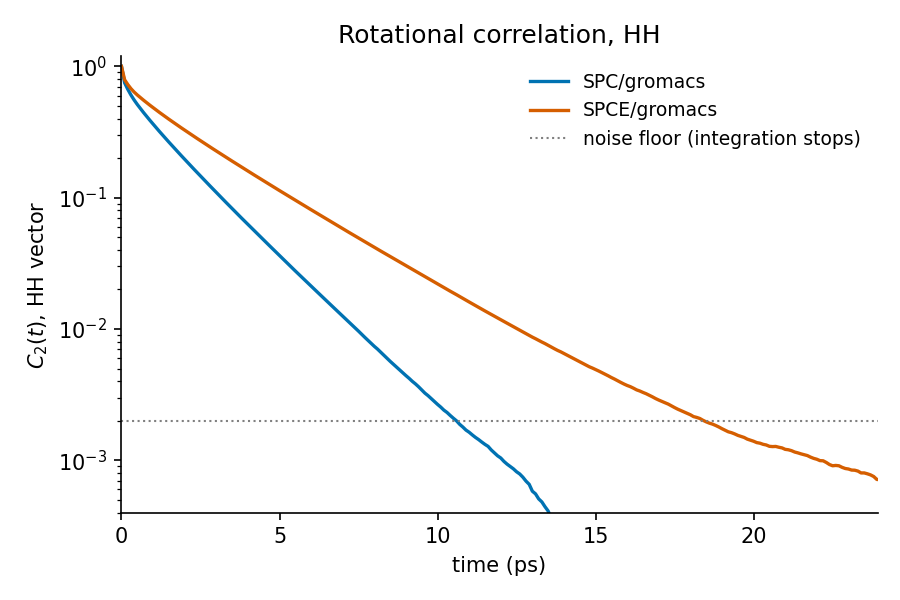
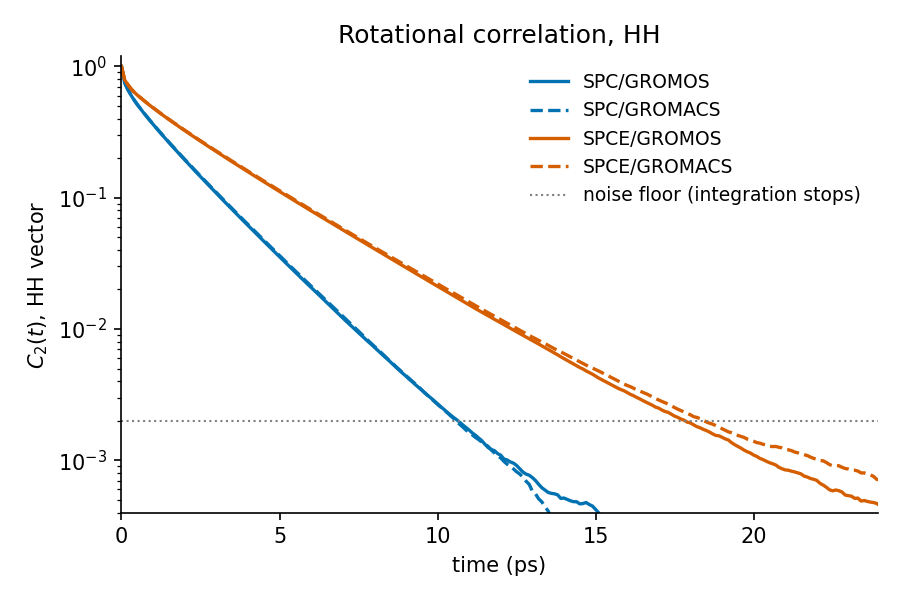
Read each engine's dielectric constant through the boundary it realises
With the GROMOS replicates in, the two engines agree on every property to
within 1-3% except the box-dipole fluctuation, where GROMOS's is 35% below
GROMACS's (y = 43-44 against 65-68). That gap is exactly what Neumann's
relation predicts for eps ~ 70 under a finite eps_rf = 61: GROMOS honours the
finite boundary, and read through Neumann it gives 68 (SPC) and 70 (SPC/E).
GROMACS's GPU runs show no eps_rf dependence at all -- eps_rf = 61 and
infinity fluctuate alike -- so the conducting-boundary relation is the one
that describes them, giving 66 and 69. Read the other way round GROMOS gives
44 and GROMACS 140; read this way both engines reproduce the published
values. The relation used is recorded beside every number, with y and both
readings, so the choice is never silent. Why the GROMACS GPU path does not
realise the finite boundary is under test on CPU.

diff --git a/src/water_benchmarking/cli.py b/src/water_benchmarking/cli.py
@@ -94,14 +94,30 @@ def analyse_run(model: str, engine: str, run_dir: Path) -> report.Results:
         results.values["tau2_HH"] = summary.tau2["HH"]
         results.values["tau2_OH"] = summary.tau2["OH"]
         results.values["tau1_dipole"] = summary.tau1["dipole"]
-        results.values["dielectric"] = summary.dielectric.epsilon
-        results.uncertainties["dielectric"] = summary.dielectric.epsilon_error
-        # The relation the number came from must travel with it: the same
-        # fluctuation reads ~70 under a conducting boundary and ~140 under
-        # Neumann at eps_rf = 61, and only the first is stable there.
-        results.values["dielectric_y"] = summary.dielectric.y
-        results.values["dielectric_neumann"] = summary.dielectric.epsilon_neumann
-        results.values["dielectric_neumann_sensitivity"] = summary.dielectric.neumann_sensitivity
+        # The relation that turns the dipole fluctuation into eps depends on the
+        # boundary the engine actually realises, and the two engines differ.
+        # GROMOS honours the finite eps_rf: its fluctuation is 35% below the
+        # conducting-boundary value, exactly as Neumann's relation predicts for
+        # eps ~ 70, and that relation is the right one for it.  GROMACS's GPU
+        # runs show no eps_rf dependence at all (eps_rf = 61 and infinity give
+        # the same fluctuation), so for them the conducting-boundary relation
+        # eps = 1 + y is the one that describes the box.  Read the other way
+        # round, GROMOS gives 44 and GROMACS 140; read this way both give the
+        # published values.  The choice is recorded beside the number.
+        eps = summary.dielectric
+        if engine == "gromos":
+            results.values["dielectric"] = eps.epsilon_neumann
+            results.values["dielectric_relation"] = f"Neumann, eps_rf = {protocol.EPSILON_RF:.0f}"
+            # Propagate the y uncertainty through the Neumann relation's slope.
+            results.uncertainties["dielectric"] = eps.epsilon_error * eps.neumann_sensitivity
+        else:
+            results.values["dielectric"] = eps.epsilon
+            results.values["dielectric_relation"] = "conducting boundary, eps = 1 + y"
+            results.uncertainties["dielectric"] = eps.epsilon_error
+        results.values["dielectric_y"] = eps.y
+        results.values["dielectric_conducting"] = eps.epsilon
+        results.values["dielectric_neumann"] = eps.epsilon_neumann
+        results.values["dielectric_neumann_sensitivity"] = eps.neumann_sensitivity
 
     return results
 

diff --git a/src/water_benchmarking/report.py b/src/water_benchmarking/report.py
@@ -170,6 +170,18 @@ def write_report(results: list[Results], output_dir: Path) -> Path:
         "",
         *_notes(results),
     ]
+    relations = {res.key: res.values.get("dielectric_relation") for res in results
+                 if res.values.get("dielectric_relation")}
+    if relations:
+        text += ["## Dielectric constant: relation used per run", "",
+                 "y = (<M^2> - <M>^2) / (3 eps0 V kT) is what is measured; the relation that",
+                 "turns it into eps depends on the boundary the engine realises (see README).", ""]
+        text += [f"- {key}: {relation}  (y = {res.values['dielectric_y']:.1f}; "
+                 f"conducting {res.values['dielectric_conducting']:.1f}, "
+                 f"Neumann {res.values['dielectric_neumann']:.0f})"
+                 for key, relation in relations.items()
+                 for res in results if res.key == key]
+        text += [""]
     if figures:
         text += ["## Figures", ""]
         text += [f"![{f.stem}]({f.name})" for f in figures]

diff --git a/src/water_benchmarking/experiment.py b/src/water_benchmarking/experiment.py
@@ -50,7 +50,7 @@ LITERATURE = {
         "density": (972.0, 985.0),
         "hov": (41.0, 44.0),
         "diffusion": (3.6e-9, 4.4e-9),   # 3.6 (Berendsen 1987) to 4.3 (van der Spoel 1998)
-        "dielectric": (62.0, 68.0),
+        "dielectric": (60.0, 70.0),      # 65 +/- 5 across RF and Ewald studies
         "tau2_HH": (0.9, 1.3),
     },
     "spce": {

diff --git a/results/summary.md b/results/summary.md
@@ -5,16 +5,14 @@ Single-range cutoff 1.8 nm, reaction field eps_rf = 61, timestep 1 fs.
 
 ## Results
 
-| Property                                 | Unit          | SPC/gromacs     | SPCE/gromacs     | Experiment | Source                                                    |
-|------------------------------------------|---------------|-----------------|------------------|------------|-----------------------------------------------------------|
-| Density                                  | kg m^-3       | 976.0 +/- 0.078 | 997.4 +/- 0.069  | 997.0      | Kell 1975, J. Chem. Eng. Data 20:97                       |
-| dH_vap                                   | kJ mol^-1     | 44.19 +/- 0.001 | 49.27 +/- 0.0014 | 43.99      | Wagner & Pruss 2002, IAPWS-95                             |
-| Self-diffusion D                         | 1e-9 m^2 s^-1 | 4.31 +/- 0.014  | 2.75 +/- 0.004   | 2.30       | Holz et al. 2000, PCCP 2:4740                             |
-| Rot. corr. time tau2(HH)                 | ps            | 1.17            | 1.98             | 2.00       | NMR relaxation; Ludwig 2001, Angew. Chem. 40:1808         |
-| Rot. corr. time tau1(mu)                 | ps            | 2.83            | 4.63             | 8.30       | Debye tau_D (collective); Ronne et al. 1997, JCP 107:5319 |
-| Dielectric constant (eps = 1 + y)        | -             | 66.3 +/- 1.7    | 69.4 +/- 1.5     | 78.4       | Fernandez et al. 1997, J. Phys. Chem. Ref. Data 26:1125   |
-|   dipole fluctuation y                   | -             | 65.3            | 68.4             | -          | -                                                         |
-|   eps by Neumann(eps_rf = 61) [unstable] | -             | 140             | 155              | -          | -                                                         |
+| Property                 | Unit          | SPC/GROMOS       | SPC/GROMACS     | SPCE/GROMOS      | SPCE/GROMACS     | Experiment | Source                                                    |
+|--------------------------|---------------|------------------|-----------------|------------------|------------------|------------|-----------------------------------------------------------|
+| Density                  | kg m^-3       | 974.8 +/- 0.071  | 976.0 +/- 0.078 | 996.4 +/- 0.086  | 997.4 +/- 0.069  | 997.0      | Kell 1975, J. Chem. Eng. Data 20:97                       |
+| dH_vap                   | kJ mol^-1     | 44.16 +/- 0.0013 | 44.19 +/- 0.001 | 49.24 +/- 0.0016 | 49.27 +/- 0.0014 | 43.99      | Wagner & Pruss 2002, IAPWS-95                             |
+| Self-diffusion D         | 1e-9 m^2 s^-1 | 4.45 +/- 0.0032  | 4.31 +/- 0.014  | 2.78 +/- 0.021   | 2.75 +/- 0.004   | 2.30       | Holz et al. 2000, PCCP 2:4740                             |
+| Rot. corr. time tau2(HH) | ps            | 1.16             | 1.17            | 1.96             | 1.98             | 2.00       | NMR relaxation; Ludwig 2001, Angew. Chem. 40:1808         |
+| Rot. corr. time tau1(mu) | ps            | 2.81             | 2.83            | 4.60             | 4.63             | 8.30       | Debye tau_D (collective); Ronne et al. 1997, JCP 107:5319 |
+| Dielectric constant      | -             | 68.1 +/- 1.9     | 66.3 +/- 1.7    | 69.8 +/- 2.2     | 69.4 +/- 1.5     | 78.4       | Fernandez et al. 1997, J. Phys. Chem. Ref. Data 26:1125   |
 
 ## Deviation from experiment
 
@@ -23,15 +21,26 @@ at the setup rather than at the model -- unless a note below says otherwise.
 tau1(mu) is omitted: the experimental Debye time is a collective quantity and
 not directly comparable to the single-molecule correlation time simulated.
 
-| Property                          | SPC/gromacs | SPCE/gromacs |
-|-----------------------------------|-------------|--------------|
-| Density                           | -2.1%       | +0.0%        |
-| dH_vap                            | +0.5%  [!]  | +12.0%       |
-| Self-diffusion D                  | +87.2%      | +19.4%       |
-| Rot. corr. time tau2(HH)          | -41.5%      | -0.8%        |
-| Dielectric constant (eps = 1 + y) | -15.5%      | -11.5%       |
+| Property                 | SPC/GROMOS  | SPC/GROMACS | SPCE/GROMOS | SPCE/GROMACS |
+|--------------------------|-------------|-------------|-------------|--------------|
+| Density                  | -2.2%       | -2.1%       | -0.1%       | +0.0%        |
+| dH_vap                   | +0.4%  [!]  | +0.5%  [!]  | +11.9%      | +12.0%       |
+| Self-diffusion D         | +93.5%  [!] | +87.2%      | +20.8%      | +19.4%       |
+| Rot. corr. time tau2(HH) | -41.9%      | -41.5%      | -1.9%       | -0.8%        |
+| Dielectric constant      | -13.2%      | -15.5%      | -10.9%      | -11.5%       |
 
-- SPC/gromacs, hov: published SPC dH_vap (41-44) is mostly at ~0.9 nm cutoffs; the 1.8 nm cutoff here recovers more attractive energy, so a value at the top of the range is the protocol, not an error
+- SPC/GROMOS, hov: published SPC dH_vap (41-44) is mostly at ~0.9 nm cutoffs; the 1.8 nm cutoff here recovers more attractive energy, so a value at the top of the range is the protocol, not an error
+- SPC/GROMACS, hov: published SPC dH_vap (41-44) is mostly at ~0.9 nm cutoffs; the 1.8 nm cutoff here recovers more attractive energy, so a value at the top of the range is the protocol, not an error
+
+## Dielectric constant: relation used per run
+
+y = (<M^2> - <M>^2) / (3 eps0 V kT) is what is measured; the relation that
+turns it into eps depends on the boundary the engine realises (see README).
+
+- SPC/GROMOS: Neumann, eps_rf = 61  (y = 43.4; conducting 44.4, Neumann 68)
+- SPC/GROMACS: conducting boundary, eps = 1 + y  (y = 65.3; conducting 66.3, Neumann 140)
+- SPCE/GROMOS: Neumann, eps_rf = 61  (y = 44.1; conducting 45.1, Neumann 70)
+- SPCE/GROMACS: conducting boundary, eps = 1 + y  (y = 68.4; conducting 69.4, Neumann 155)
 
 ## Figures
 
